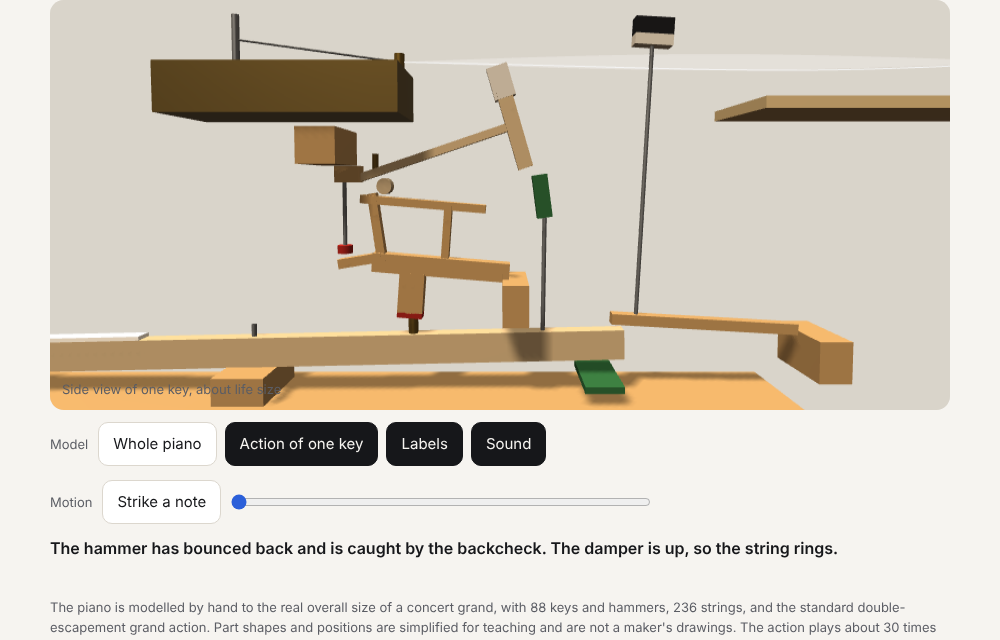
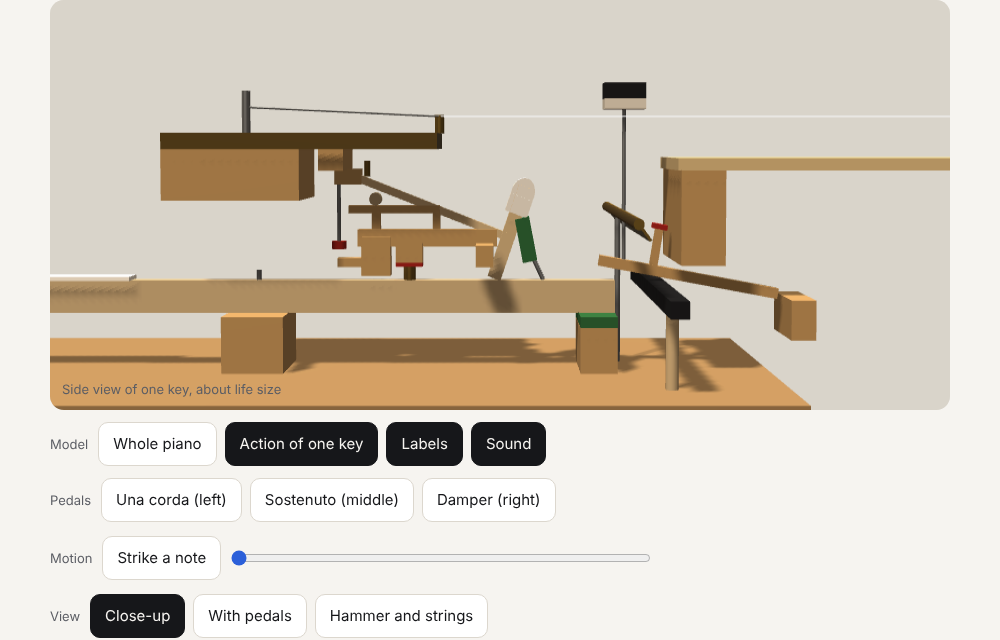
Rebuild the piano action from Steinway regulation data and add pedals
The one-key action now uses Steinway's published Model D regulation
distances and technicians' measured lever lengths, listed with sources
on the page. Adds the damper lever, tray, sostenuto rod, three strings
per note, and working damper, sostenuto and una corda pedals in both the
action view and the whole piano.

Claude-Session: https://claude.ai/code/session_0183zpqxzwarV8TUNT6yqHS7

diff --git a/piano.html b/piano.html
@@ -76,6 +76,11 @@ input[type=range]{flex:1 1 220px;max-width:420px;min-height:44px;accent-color:va
     <button id="lblbtn" aria-pressed="true">Labels</button>
     <button id="sndbtn" aria-pressed="true">Sound</button>
   </div>
+  <div class="bar" id="pedals"><span>Pedals</span>
+    <button data-p="U" aria-pressed="false">Una corda (left)</button>
+    <button data-p="S" aria-pressed="false">Sostenuto (middle)</button>
+    <button data-p="D" aria-pressed="false">Damper (right)</button>
+  </div>
   <div id="wholeUI">
     <div class="bar" id="layers"><span>Show</span>
       <button data-l="lid" aria-pressed="true">Lid and music desk</button>
@@ -96,9 +101,14 @@ input[type=range]{flex:1 1 220px;max-width:420px;min-height:44px;accent-color:va
       <button id="strike" aria-pressed="false">Strike a note</button>
       <input type="range" id="scrub" min="0" max="1000" value="0" aria-label="Step through the key stroke">
     </div>
+    <div class="bar" id="aviews"><span>View</span>
+      <button data-v="close" aria-pressed="true">Close-up</button>
+      <button data-v="pedals" aria-pressed="false">With pedals</button>
+      <button data-v="hammer" aria-pressed="false">Hammer and strings</button>
+    </div>
     <p class="phase" id="phase"></p>
   </div>
-  <p class="note">The piano is modelled by hand to the real overall size of a concert grand, with 88 keys and hammers, 236 strings, and the standard double-escapement grand action. Part shapes and positions are simplified for teaching and are not a maker's drawings. The action plays about 30 times slower than a real key stroke, and string movement is exaggerated so it can be seen.</p>
+  <p class="note">The action is built to Steinway's published regulation distances for the Model D and to lever lengths measured by piano technicians, listed in the table below. Part outlines, the key length and the pedal linkage under the keybed are simplified and are not Steinway drawings. The action plays about 30 times slower than a real key stroke, and string movement is exaggerated so it can be seen.</p>
 </div>
 <div class="band grid" style="padding-top:8px">
   <div>
@@ -108,14 +118,41 @@ input[type=range]{flex:1 1 220px;max-width:420px;min-height:44px;accent-color:va
   <div class="card">
     <h2>What happens when a key goes down</h2>
     <ol>
-      <li>The key is a lever. Its front goes down about 10 mm and its back end rises.</li>
+      <li>The key is a lever. Its front goes down 10.2 mm and its back end rises about half as far.</li>
       <li>The capstan on the key lifts the wippen, which carries the jack.</li>
-      <li>The jack pushes the knuckle under the hammer shank, and the hammer swings up about 45 mm.</li>
-      <li>Just before the string, the jack's toe meets the let-off button. The jack slips out from under the knuckle, so the hammer flies the last 2 mm freely.</li>
+      <li>The jack pushes the knuckle under the hammer shank, and the hammer swings up toward the string, 47.6 mm above its rest position.</li>
+      <li>Just before the string, the jack's toe meets the let-off button. The jack slips out from under the knuckle, so the hammer flies the last 1.6 mm freely.</li>
       <li>The hammer strikes the string and bounces back at once, leaving the string free to ring. Meanwhile the back of the key has lifted the damper off the string.</li>
       <li>The backcheck catches the falling hammer. The repetition lever holds it part-way up, so the jack can slide back under and the note can be repeated quickly.</li>
       <li>When the key is released, everything returns and the damper drops onto the string and stops the sound.</li>
     </ol>
+  </div>
+</div>
+<div class="band" style="padding-top:0">
+  <div class="card">
+    <h2>Measurements used</h2>
+    <div class="scroll"><table>
+      <thead><tr><th>Item</th><th>Value in the model</th><th>Source</th></tr></thead>
+      <tbody>
+        <tr><td>Key dip</td><td class="n">0.400 in (10.2 mm)</td><td>Steinway technical reference: factory setting, range 0.390 to 0.420 in</td></tr>
+        <tr><td>Hammer blow distance</td><td class="n">1-7/8 in (47.6 mm)</td><td>Steinway technical reference: Models C and D</td></tr>
+        <tr><td>Let-off</td><td class="n">1/16 in (1.6 mm)</td><td>Steinway technical reference: between 1/32 and 1/16 in from the string</td></tr>
+        <tr><td>Aftertouch</td><td class="n">about 0.047 in (1.2 mm)</td><td>Steinway technical reference: 3/64 to 1/16 in</td></tr>
+        <tr><td>Checking</td><td class="n">15 mm below the string</td><td>Steinway technical reference, Hamburg procedure</td></tr>
+        <tr><td>Knuckle to shank pivot</td><td class="n">17 mm</td><td>Standard on Hamburg shanks, and on New York shanks since 1984</td></tr>
+        <tr><td>Shank pivot to hammer</td><td class="n">130 mm</td><td>Technicians' measurements of Steinway actions (127 to 144 mm reported)</td></tr>
+        <tr><td>Hammer bore</td><td class="n">48 mm</td><td>Technicians' measurement</td></tr>
+        <tr><td>Wippen: pivot to capstan, pivot to jack</td><td class="n">62.5 mm, 93 mm</td><td>Technicians' measurements (wippen ratio about 1.5)</td></tr>
+        <tr><td>Key ratio</td><td class="n">0.5</td><td>Technicians' measurements of modern Steinway keys</td></tr>
+        <tr><td>Action spread</td><td class="n">112.4 mm</td><td>Follows from the lever lengths above; close to the usual Steinway figure</td></tr>
+        <tr><td>Damper lever pivot height</td><td class="n">2-1/4 in (57 mm) above the keybed</td><td>Steinway technical reference, New York underlever assembly</td></tr>
+        <tr><td>Damper lift begins</td><td class="n">at half the hammer travel</td><td>Standard regulation rule</td></tr>
+        <tr><td>Dampers</td><td class="n">68 (notes 1 to 68)</td><td>Steinway technical reference, Hamburg (New York has 67)</td></tr>
+        <tr><td>Damper pedal free play</td><td class="n">about 3 mm at the tip</td><td>Common regulation check (1/8 in)</td></tr>
+        <tr><td>Una corda shift</td><td class="n">3.6 mm</td><td>Set so the hammer misses the left string of three, as Steinway specifies; the distance itself is my estimate</td></tr>
+      </tbody>
+    </table></div>
+    <p class="note">Sources: <a href="https://www.indyptg.org/PTG/SteinwayServiceManuals/Chp2.pdf">Steinway World-Wide Technical Reference Guide, grand regulation</a>, <a href="https://www.indyptg.org/PTG/SteinwayServiceManuals/Chp6.pdf">specifications and service techniques</a>, and <a href="https://www.steinwayreference.com/action-regulation-specifications/">Steinway Reference: action regulation specifications</a>. Lever lengths come from discussions among Piano Technicians Guild members. With these levers the hammer would move 5.7 times as far as the key front; the model slows the wippen slightly so the hammer reaches let-off with the published aftertouch left over, as felt compression and lost motion do in a real action.</p>
   </div>
 </div>
 
@@ -137,25 +174,31 @@ const PARTS={
  keys:['Keys','Whole piano','52 white and 36 black keys. Each is a long wooden lever. Only the front 15 cm shows; the rest runs back under the fallboard to lift the action.'],
  rim:['Rim and braces','Whole piano','The curved case is bent from laminated hard maple. Heavy wooden braces underneath hold it rigid. A grand is open underneath, so the soundboard radiates both up and down.'],
  lid:['Lid','Whole piano','Open on its long stick, the lid reflects the upward sound out toward the audience over the curved side.'],
- key:['Key','Action','A wooden lever balanced on a pin in the balance rail. Pressing the front down about 10 mm raises the back end.'],
+ key:['Key','Action','A wooden lever balanced on a pin in the balance rail. Steinway sets the key dip at 0.400 in (10.2 mm). The capstan sits half as far behind the balance pin as the finger is in front of it, so the back of the key rises about half as far as the front goes down.'],
  capstan:['Capstan','Action','A brass screw on the key that lifts the wippen. Turning it adjusts how far the hammer rests below the string.'],
  wippen:['Wippen','Action','The lever between key and hammer. It is hinged at its back end and carries the jack and the repetition lever.'],
  jack:['Jack','Action','The L-shaped piece that pushes the hammer up through the knuckle. When its toe reaches the let-off button it swings out from under the knuckle. This is the escapement: it frees the hammer so it cannot stay pressed against the string.'],
- letoff:['Let-off button','Action','A fixed felt stop. It trips the jack when the hammer is about 2 mm from the string.'],
+ letoff:['Let-off button','Action','A fixed felt stop. It trips the jack when the hammer is 1/16 in (1.6 mm) from the string.'],
  replever:['Repetition lever','Action','A sprung lever on the wippen. After the strike it holds the hammer part-way up so the jack can get back under the knuckle before the key has fully risen. This "double escapement" is what allows fast repeated notes on a grand.'],
- knuckle:['Knuckle','Action','A small leather-covered roller under the hammer shank. The jack and the repetition lever push on it.'],
+ knuckle:['Knuckle','Action','A small leather-covered roller under the hammer shank, 17 mm from the shank pivot. The hammer is about 130 mm from the pivot, so it moves about 7.6 times as far as the jack pushes the knuckle.'],
  shank:['Hammer shank and flange','Action','The thin wooden arm that carries the hammer. It pivots on a pin in its flange, which is screwed to the hammer rail.'],
- hammer:['Hammer','Action','A wooden moulding covered with dense wool felt. It travels about 45 mm to the string and touches it for only a few thousandths of a second. The hardness of the felt shapes the tone.'],
- backcheck:['Backcheck','Action','A leather-covered pad on the back of the key. It catches the hammer as it falls back, so the hammer cannot bounce up and hit the string twice.'],
+ hammer:['Hammer','Action','A wooden moulding covered with dense wool felt. On a Model D it rests 1-7/8 in (47.6 mm) below the string and touches the string for only a few thousandths of a second. The hardness of the felt shapes the tone.'],
+ backcheck:['Backcheck','Action','A leather-covered pad on the back of the key. It catches the hammer as it falls back, about 15 mm below the string, so the hammer cannot bounce up and hit the string twice.'],
  damper:['Damper','Action','Felt resting on the string, lifted by the back of the key through the damper lever and wire. It lifts before the hammer strikes and stops the string when the key comes up.'],
  string:['String','Action','Stretched between the agraffe at the front and the bridge on the soundboard. The hammer strikes close to the front end, about one eighth of the way along.'],
+ underlever:['Damper lever','Action','The underlever. Its pivot sits 57 mm (2-1/4 in) above the keybed. The back of the key lifts its front end, and the damper wire stands on it. The key starts to lift it when the hammer is half-way to the string.'],
+ tray:['Damper tray','Action','A rail lying under all the damper levers. The damper pedal raises it, so every damper lifts at once.'],
+ sosrod:['Sostenuto rod','Action','A brass rod with a thin lip, running behind the dampers. When the middle pedal is pressed it turns, and its lip catches the tabs of the dampers that are already raised. Those notes keep ringing after their keys are released, while all the other dampers work normally.'],
+ pedalD:['Damper pedal (right)','Pedals','After about 3 mm of free play, the pedal pushes a rod up to a lever under the keybed. That lever raises a wooden dowel, the pitman, which lifts the damper tray and with it every damper. All strings are then free to ring, including strings that were not struck.'],
+ pedalS:['Sostenuto pedal (middle)','Pedals','Holds only the notes whose dampers are up at the moment the pedal goes down. Play a note, press the pedal while the key is still down, then let the key go: that damper stays up.'],
+ pedalU:['Una corda pedal (left)','Pedals','Slides the whole keyframe, with keys, action and hammers, a few millimetres toward the treble. Each hammer then misses the left string of its three, and strikes with a softer, less worn part of its felt. The tone becomes softer and thinner.'],
  agraffe:['Agraffe','Action','A brass stud screwed into the iron plate. The string passes through it, and it fixes the front end of the vibrating length.']
 };
 let sel='soundboard',mode='whole';
 function renderInfo(){const d=PARTS[sel];infoEl.textContent='';const h=document.createElement('h3'),t=document.createElement('p'),p=document.createElement('p');
   h.textContent=d[0];t.className='tag';t.textContent=d[1];p.style.margin='0';p.textContent=d[2];infoEl.append(h,t,p);
   chipsEl.querySelectorAll('button').forEach(b=>b.setAttribute('aria-pressed',b.dataset.k===sel))}
-function renderChips(){chipsEl.textContent='';Object.keys(PARTS).filter(k=>(PARTS[k][1]==='Action')===(mode==='action')).forEach(k=>{const b=document.createElement('button');b.dataset.k=k;b.textContent=PARTS[k][0];b.onclick=()=>{sel=k;renderInfo()};chipsEl.append(b)})}
+function renderChips(){chipsEl.textContent='';Object.keys(PARTS).filter(k=>PARTS[k][1]==='Pedals'||(PARTS[k][1]==='Action')===(mode==='action')).forEach(k=>{const b=document.createElement('button');b.dataset.k=k;b.textContent=PARTS[k][0];b.onclick=()=>{sel=k;renderInfo()};chipsEl.append(b)})}
 renderChips();renderInfo();
 
 if(!window.THREE||!THREE.OrbitControls){const e=document.createElement('div');e.className='err';e.textContent='The 3D view could not load. Check your connection and reload.';fig.append(e)}
@@ -177,7 +220,16 @@ const brass=M('#b8923c',{metalness:.9,roughness:.3,envMapIntensity:1}),steel=M('
 const box=(w,h,d)=>new THREE.BoxGeometry(w,h,d),cyl=(a,b,h,s=16)=>new THREE.CylinderGeometry(a,b,h,s);
 const add=(geo,mat,parent,x=0,y=0,z=0,sh=true)=>{const m=new THREE.Mesh(geo,mat);m.position.set(x,y,z);m.castShadow=sh;m.receiveShadow=true;parent.add(m);return m};
 function rod(a,b,r,mat,parent){const m=add(cyl(r,r,1,10),mat,parent);m.position.copy(a).add(b).multiplyScalar(.5);m.scale.y=a.distanceTo(b);m.quaternion.setFromUnitVectors(UP,b.clone().sub(a).normalize());return m}
-const labels=[];function label(obj,pos,key,text){const el=document.createElement('div');el.className='lb';el.textContent=text||PARTS[key][0];el.onclick=()=>{sel=key;renderInfo()};labelsEl.append(el);labels.push({el,obj,pos,key,act:PARTS[key][1]==='Action'})}
+const labels=[];function label(obj,pos,key,text){const el=document.createElement('div');el.className='lb';el.textContent=text||PARTS[key][0];el.onclick=()=>{sel=key;renderInfo()};labelsEl.append(el);labels.push({el,obj,pos,key,act:PARTS[key][1]!=='Whole piano'})}
+
+// Regulation distances are Steinway's published figures for the Model D; lever lengths are technicians' measurements of Steinway actions.
+const DIP=.01016,BLOW=.0476,LETOFF=.0016,CHECK=.015,AFTER=.0012;      // key dip .400", blow 1-7/8", let-off 1/16", checking 15 mm, aftertouch about .047"
+const KNUCKLE=.017,SHANK=.130,BORE=.048,WIP_HEEL=.0625,WIP_JACK=.0927; // knuckle 17 mm, strike arm 130 mm, bore 48 mm, wippen arms 62.5 and 93 mm
+const KFRONT=.245,KCAP=.125,KEND=.29,KA=DIP/KFRONT;                    // key ratio 0.5: capstan 125 mm behind the balance pin
+const Hx=.0845,Hy=.145,Wx=.1875,Wy=.100,YSA=Hy+BORE,T=.0125;           // hammer and wippen centres: action spread 112.4 mm
+const angFor=d=>{let a=-.6,b=.2;for(let i=0;i<40;i++){const m=(a+b)/2;(SHANK*Math.sin(m)+BORE*Math.cos(m)-BORE< -d)?a=m:b=m}return a}; // shank angle that leaves the hammer tip d below the string
+const TH0=angFor(BLOW),THL=angFor(LETOFF),THC=angFor(CHECK),THS=0,PL=1-AFTER/DIP,TWL=(THL-TH0)*KNUCKLE/WIP_JACK;
+const ped={D:0,S:0,U:0},pedT={D:0,S:0,U:0};
 
 // ======================= WHOLE PIANO =======================
 const whole=new THREE.Group();scene.add(whole);
@@ -189,6 +241,7 @@ const IN=(x,y)=>[.1+(x-.1)*.955,y*.92],IN2=(x,y)=>[.1+(x-.1)*.89,y*.83],FLAT=m=>
 // curved-side limit: largest z inside the inner rim at a given x
 const edge=outline(new THREE.Shape(),-1.19,IN).getPoints(60);
 const zMax=x=>{let m=-9;edge.forEach(p=>{if(Math.abs(p.x-x)<.05&&-p.y>m)m=-p.y});return m<-8?.6:m};
+const wPed=[];
 { // case
   const s=outline(new THREE.Shape(),-1.19);s.holes.push(outline(new THREE.Path(),-1.19,IN));
   FLAT(add(new THREE.ExtrudeGeometry(s,{depth:.36,bevelEnabled:false,curveSegments:24}),lacquer,gCase,0,.62,0));
@@ -197,7 +250,7 @@ const zMax=x=>{let m=-9;edge.forEach(p=>{if(Math.abs(p.x-x)<.05&&-p.y>m)m=-p.y})
   [-.75,.75].forEach(z=>add(box(.2,.26,.06),lacquer,gCase,-1.28,.75,z));add(box(.24,.06,1.44),lacquer,gCase,-1.26,.65,0);add(box(.015,.03,1.44),lacquer,gCase,-1.372,.705,0);
   [-.665,.665].forEach(z=>add(box(.17,.06,.1),lacquer,gCase,-1.275,.73,z));
   [[-1.22,-.64],[-1.22,.64],[1.02,-.48]].forEach(([x,z])=>{add(box(.14,.1,.14),lacquer,gCase,x,.57,z);add(cyl(.062,.045,.42,4),lacquer,gCase,x,.31,z).rotation.y=Math.PI/4;add(cyl(.02,.02,.06,10),brass,gCase,x,.085,z);add(cyl(.032,.032,.05,14),brass,gCase,x,.034,z).rotation.x=Math.PI/2});
-  [-.09,.09].forEach(z=>rod(V(-1.08,.62,z),V(-1.08,.16,z*.8),.014,lacquer,gCase));add(box(.12,.07,.26),lacquer,gCase,-1.1,.13,0);[-.07,0,.07].forEach(z=>add(box(.11,.012,.035),brass,gCase,-1.2,.1,z));
+  [-.09,.09].forEach(z=>rod(V(-1.08,.62,z),V(-1.08,.16,z*.8),.014,lacquer,gCase));add(box(.12,.07,.26),lacquer,gCase,-1.1,.13,0);wPed.push(...[-.07,0,.07].map(z=>add(box(.11,.012,.035),brass,gCase,-1.2,.1,z)));
   label(gCase,V(1.3,.8,-.86),'rim');
 }
 { // lid, fallboard, music desk
@@ -241,93 +294,128 @@ function setString(o,j,off){const a=o.pins[j],dz=(j-(o.count-1)/2)*.0042,dir=o.e
   label(gStr,V(-.2,.93,.2),'treble');label(gStr,V(.2,.96,-.3),'bass')}
 // dampers (notes 1 to 68), hammers and keys: instanced, with per-note matrices so each can move
 const DN=68,damp=new THREE.InstancedMesh(box(.045,.022,.011),dark,DN),dampF=new THREE.InstancedMesh(box(.045,.008,.011),feltW,DN);gDamp.add(damp,dampF);
-const head=new THREE.InstancedMesh(box(.014,.022,.0105),feltW,88),mould=new THREE.InstancedMesh(box(.011,.055,.0095),maple,88),shank=new THREE.InstancedMesh(box(.13,.006,.006),maple,88);gAct.add(head,mould,shank);
+const head=new THREE.InstancedMesh(box(.014,.022,.0105),feltW,88),mould=new THREE.InstancedMesh(box(.011,.075,.0095),maple,88),shank=new THREE.InstancedMesh(box(.13,.006,.006),maple,88);gAct.add(head,mould,shank);
 const wk=new THREE.InstancedMesh(box(.15,.022,1.22/52*.92),ivory,52),bk=new THREE.InstancedMesh(box(.095,.012,.0125),M('#0c0c0d',{roughness:.3}),36);gAct.add(wk,bk);
 add(box(.36,.02,1.3),beech,gAct,-1.0,.7,0);add(box(.03,.03,1.26),beech,gAct,-.93,.83,0);
 {let w=0,b=0;const W52=1.22/52;notes.forEach(o=>{const pc=(o.n+8)%12,black=[1,3,6,8,10].includes(pc);o.black=black;
   if(black){o.kz=-.61+w*W52;o.ki=b++}else{o.kz=-.61+(w+.5)*W52;o.ki=w++}})}
-const HP=YS-.0855,mt=new THREE.Matrix4(),mr=new THREE.Matrix4(),mo=new THREE.Matrix4();
+const HP=YS-BORE,mt=new THREE.Matrix4(),mr=new THREE.Matrix4(),mo=new THREE.Matrix4();
 function pose(o,p,th,lift){ // p: key travel 0..1, th: hammer angle, lift: damper lift in metres
-  mt.makeTranslation(-1.10,.724,o.kz);mr.makeRotationZ(.041*p);mo.makeTranslation(o.black?-.1425:-.17,o.black?.018:0,0);(o.black?bk:wk).setMatrixAt(o.ki,mt.clone().multiply(mr).multiply(mo));
+  mt.makeTranslation(-1.10,.724,o.kz);mr.makeRotationZ(KA*p);mo.makeTranslation(o.black?-.1425:-.17,o.black?.018:0,0);(o.black?bk:wk).setMatrixAt(o.ki,mt.clone().multiply(mr).multiply(mo));
   mt.makeTranslation(XS-.13,HP,o.z);mr.makeRotationZ(th);const base=mt.clone().multiply(mr);
-  shank.setMatrixAt(o.n-1,base.clone().multiply(mo.makeTranslation(.065,0,0)));mould.setMatrixAt(o.n-1,base.clone().multiply(mo.makeTranslation(.13,-.002,0)));head.setMatrixAt(o.n-1,base.clone().multiply(mo.makeTranslation(.13,.034,0)));
+  shank.setMatrixAt(o.n-1,base.clone().multiply(mo.makeTranslation(.065,0,0)));mould.setMatrixAt(o.n-1,base.clone().multiply(mo.makeTranslation(.13,.004,0)));head.setMatrixAt(o.n-1,base.clone().multiply(mo.makeTranslation(.13,.037,0)));
   if(o.n<=DN){const y=YS+(o.bass?.012:0)+.006+lift;damp.setMatrixAt(o.n-1,mo.makeTranslation(XS+.075,y+.014,o.z));dampF.setMatrixAt(o.n-1,mo.makeTranslation(XS+.075,y,o.z))}}
-notes.forEach(o=>pose(o,0,-.04,0));
+const wLift=(o,p)=>Math.max(p*.006,ped.D*.007,o.sos?.006:0),restAll=()=>{notes.forEach(o=>{if(!live.has(o.n))pose(o,0,TH0,wLift(o,0))});[head,mould,shank,damp,dampF,wk,bk].forEach(m=>m.instanceMatrix.needsUpdate=true)};
 label(gAct,V(-1.3,.76,.45),'keys');label(gAct,V(XS,.86,-.2),'hammers');label(gDamp,V(XS+.08,.95,.05),'dampers');
 // playing a note
-const live=new Map();let ac=null,master=null,sndOn=true;
+const live=new Map();restAll();let ac=null,master=null,sndOn=true;
 function audio(){try{if(!ac){const A=window.AudioContext||window.webkitAudioContext;ac=new A();master=ac.createGain();master.gain.value=.5;master.connect(ac.destination)}ac.resume()}catch(e){ac=null}}
-function tone(n,vel){if(!ac||!sndOn||ac.state!=='running')return;const t=ac.currentTime,f=27.5*2**((n-1)/12),g=ac.createGain(),dur=Math.max(.5,3.2-n*.028);
+function tone(n,vel){if(ped.U>.5)vel*=.6;if(!ac||!sndOn||ac.state!=='running')return;const t=ac.currentTime,f=27.5*2**((n-1)/12),g=ac.createGain(),dur=Math.max(.5,3.2-n*.028);
   g.gain.setValueAtTime(0,t);g.gain.linearRampToValueAtTime(vel*.24,t+.006);g.gain.exponentialRampToValueAtTime(.0008,t+dur);g.connect(master);
   [['triangle',f,1],['sine',f*2,.35],['sine',f*3,.12]].forEach(([ty,fr,a])=>{if(fr>9000)return;const o=ac.createOscillator(),og=ac.createGain();o.type=ty;o.frequency.value=fr;og.gain.value=a;o.connect(og);og.connect(g);o.start(t);o.stop(t+dur+.05)})}
 function playNote(n,vel=.8,hold=.35){const o=notes[n-1];if(!o)return;live.set(n,{o,t:0,hold,struck:false,vel})}
 function stepNotes(dt){if(!live.size)return;const tt=performance.now()/1000;
   live.forEach((s,n)=>{s.t+=dt;const t=s.t,o=s.o,rel=t-(.07+s.hold);
     const p=t<.07?t/.07:rel<0?1:Math.max(0,1-rel/.12);
-    const th=t<.06?-.04+.37*(t/.06):t<.12?.33-.11*((t-.06)/.06):rel<0?.22:-.04+.26*p;
+    const th=t<.06?TH0*(1-t/.06):t<.12?THC*((t-.06)/.06):rel<0?THC:TH0+(THC-TH0)*p,free=n>DN||ped.D>.5||o.sos;if(rel<0)o.held=true;else o.held=false;
     if(!s.struck&&t>=.06){s.struck=true;tone(n,s.vel)}
-    const amp=t<.06?0:Math.exp(-(t-.06)*(n>DN?2.5:1.2))*(rel>0&&n<=DN?Math.exp(-rel*25):1)*(o.bass?.004:.0022);
-    pose(o,p,th,p*.008);for(let j=0;j<o.count;j++)setString(o,j,amp*Math.sin(tt*(55+n)+j*2));
-    if(rel>.12&&amp<.00005){pose(o,0,-.04,0);for(let j=0;j<o.count;j++)setString(o,j,0);live.delete(n)}});
+    if(rel>0&&!free)s.damp=(s.damp||0)+dt;const amp=t<.06?0:Math.exp(-(t-.06)*(n>DN?2.5:1.2))*Math.exp(-(s.damp||0)*25)*(o.bass?.004:.0022);
+    pose(o,p,th,wLift(o,p));for(let j=0;j<o.count;j++)setString(o,j,amp*Math.sin(tt*(55+n)+j*2));
+    if(rel>.12&&amp<.00005){pose(o,0,TH0,wLift(o,0));for(let j=0;j<o.count;j++)setString(o,j,0);live.delete(n)}});
   [wk,bk,head,mould,shank,damp,dampF,strSteel,strCu].forEach(m=>m.instanceMatrix.needsUpdate=true)}
 // the piece: opening bars of Bach's Prelude in C major, BWV 846
 const BARS=[[40,44,47,52,56],[40,42,49,54,57],[39,42,47,54,57],[40,44,47,52,56]],PAT=[0,1,2,3,4,2,3,4];let piece=false,pn=0,pt=0;
 function stepPiece(dt){if(!piece)return;pt-=dt;while(pt<=0){const k=PAT[pn%8];playNote(BARS[Math.floor(pn/16)%4][k],k===0?1:.7,k<2?.9:.3);pn++;pt+=.26}}
 
 // ======================= ACTION OF ONE KEY =======================
+// Regulation distances are Steinway's published figures for the Model D; lever lengths are technicians' measurements of Steinway actions.
 const action=new THREE.Group();action.visible=false;scene.add(action);
-const T=.0125,Hx=.0867,Hy=.160,YSA=.2455,TW=.0786,PL=.88,TH0=-.04,THS=.33,THC=.22;
-add(box(.66,.02,.09),beech,action,.1,-.012,0);add(box(.04,.02,.06),beech,action,0,.009,0);rod(V(0,.018,0),V(0,.05,0),.002,steel,action);
-add(box(.03,.012,.06),beech,action,-.21,.004,0);add(cyl(.009,.009,.004,14),feltG,action,-.21,.012,0);add(box(.03,.005,.06),feltG,action,.28,.0105,0);
-const aKey=new THREE.Group();aKey.position.set(0,.030,0);action.add(aKey);
-add(box(.54,.022,T),maple,aKey,.03,0,0);add(box(.15,.003,T),ivory,aKey,-.165,.0125,0);add(box(.003,.022,T),ivory,aKey,-.2405,0,0);
-add(cyl(.004,.004,.014,10),brass,aKey,.13,.018,0);rod(V(.235,.011,0),V(.238,.1,0),.0018,steel,aKey);add(box(.012,.032,T),feltG,aKey,.236,.112,0).rotation.z=.12;
-const aWip=new THREE.Group();aWip.position.set(.20,.090,0);action.add(aWip);
-add(box(.11,.014,T),beech,aWip,-.0475,0,0);add(box(.02,.03,T),beech,aWip,-.07,-.021,0);add(box(.02,.004,T),feltR,aWip,-.07,-.0375,0);
-add(box(.006,.04,T*.8),beech,aWip,-.045,.027,0);
-const aRep=add(box(.10,.006,T),beech,aWip,-.065,.046,0);
-add(box(.02,.03,.06),beech,action,.212,.07,0);
-const aJack=new THREE.Group();aJack.position.set(-.095,0,0);aWip.add(aJack);
-add(box(.007,.052,T*.7),beech,aJack,0,.026,0);add(box(.035,.007,T*.7),beech,aJack,-.0175,.004,0);
-rod(V(.075,.11,0),V(.075,.168,0),.0016,steel,action);const aLet=add(cyl(.006,.006,.006,14),feltR,action,.075,.107,0);
-const aHam=new THREE.Group();aHam.position.set(Hx,Hy,0);action.add(aHam);
-add(box(.13,.006,.006),maple,aHam,.065,0,0);const aKn=add(cyl(.006,.006,T*.9,14),M('#c9b18a'),aHam,.0183,-.012,0);aKn.rotation.x=Math.PI/2;
-add(box(.012,.06,T*.85),maple,aHam,.13,-.003,0);const aHead=add(cyl(.0112,.0112,T*.95,24),M('#fbf8f0',{roughness:1}),aHam,.13,.031,0);aHead.rotation.x=Math.PI/2;aHead.scale.z=1.25;add(box(.02,.012,T*.95),M('#fbf8f0',{roughness:1}),aHam,.13,.022,0);
-add(box(.02,.012,T),beech,action,Hx-.008,Hy+.003,0);add(box(.03,.026,.06),beech,action,.062,.183,0);add(cyl(.0025,.0025,.012,8),brass,action,.1,.172,0);
-const aDam=new THREE.Group();aDam.position.set(.44,.047,0);action.add(aDam);
-add(box(.15,.008,T*.8),beech,aDam,-.075,0,0);rod(V(-.13,.004,0),V(-.13,YSA-.047+.022,0),.0016,steel,aDam);
-const aDh=add(box(.03,.012,T),dark,aDam,-.13,YSA-.047+.019,0);add(box(.03,.008,T),feltW,aDam,-.13,YSA-.047+.009,0);add(box(.025,.03,.06),beech,action,.455,.03,0);
-add(box(.18,.035,.07),iron,action,.035,.2225,0);const aAg=add(cyl(.004,.004,.02,10),brass,action,.12,YSA-.004,0);add(cyl(.003,.003,.05,8),steel,action,-.01,.255,0);
-rod(V(-.01,.262,0),V(.12,YSA,0),.0008,steel,action);
-const BX=.62;add(box(.022,.03,.07),M('#9a6b3c'),action,BX,YSA-.016,0);add(box(.34,.008,.09),spruce,action,.56,YSA-.035,0);rod(V(BX,YSA,0),V(.74,YSA-.005,0),.0008,steel,action);
-const SN=48,sGeo=new THREE.BufferGeometry();sGeo.setAttribute('position',new THREE.Float32BufferAttribute(new Float32Array((SN+1)*3),3));
-const aStr=new THREE.Line(sGeo,new THREE.LineBasicMaterial({color:0xf2f2f2}));action.add(aStr);
-const lens=new THREE.Shape();lens.moveTo(.12,0);for(let i=0;i<=SN;i++)lens.lineTo(.12+(BX-.12)*i/SN,Math.sin(Math.PI*i/SN));for(let i=SN;i>=0;i--)lens.lineTo(.12+(BX-.12)*i/SN,-Math.sin(Math.PI*i/SN));
+const aShift=new THREE.Group();action.add(aShift); // everything on the keyframe: this is what the una corda pedal slides sideways
+add(box(.70,.045,.34),M('#a98558',{roughness:.7}),action,.07,-.0225,0);
+add(box(.05,.0425,.07),beech,aShift,0,.02125,0);rod(V(0,.04,0),V(0,.075,0),.002,steel,aShift);
+add(box(.03,.022,.07),beech,aShift,-.235,.011,0);add(cyl(.009,.009,.010,14),feltG,aShift,-.235,.027,0);add(box(.03,.0345,.07),beech,aShift,.28,.01725,0);add(box(.03,.008,.07),feltG,aShift,.28,.0385,0);
+const aKey=new THREE.Group();aKey.position.set(0,.0425,0);aShift.add(aKey);
+add(box(.55,.025,T),maple,aKey,.02,.0125,0);add(box(.15,.003,T*1.85),ivory,aKey,-.18,.0265,0);add(box(.003,.022,T*1.85),ivory,aKey,-.2565,.016,0);
+const aCap=add(cyl(.005,.005,.013,12),brass,aKey,KCAP,.0315,0);
+rod(V(.236,.025,0),V(.226,.045,0),.0018,steel,aKey);const aBack=add(box(.012,.034,T),feltG,aKey,.2215,.056,0);aBack.rotation.z=.2;
+const aWip=new THREE.Group();aWip.position.set(Wx,Wy,0);aShift.add(aWip);
+add(box(.115,.013,T),beech,aWip,-.0475,0,0);add(box(.022,.015,T),beech,aWip,-WIP_HEEL,-.012,0);add(box(.022,.003,T),feltR,aWip,-WIP_HEEL,-.0205,0);add(box(.024,.03,T),beech,aWip,-.09,-.014,0);
+add(box(.006,.02,T*.8),beech,aWip,-.04,.012,0);const aRep=add(box(.075,.006,T),beech,aWip,-.075,.0218,0);
+add(box(.014,.016,.07),beech,aShift,Wx,.088,0);
+const aJack=new THREE.Group();aJack.position.set(-.09,-.022,0);aWip.add(aJack);
+add(box(.007,.0468,T*.7),beech,aJack,0,.0234,0);add(box(.032,.007,T*.7),beech,aJack,-.016,.003,0);
+rod(V(.0665,.097,0),V(.0665,.153,0),.0016,steel,aShift);const aLet=add(cyl(.006,.006,.006,14),feltR,aShift,.0665,.0943,0);
+const aHam=new THREE.Group();aHam.position.set(Hx,Hy,0);aShift.add(aHam);
+add(box(SHANK,.006,.006),maple,aHam,SHANK/2,0,0);const aKn=add(cyl(.005,.005,T*.9,14),M('#c9b18a'),aHam,KNUCKLE,-.010,0);aKn.rotation.x=Math.PI/2;
+add(box(.011,.075,T*.85),maple,aHam,SHANK,.004,0);const hf=M('#fbf8f0',{roughness:1});
+const aHead=add(cyl(.0096,.0096,T*.95,24),hf,aHam,SHANK,.036,0);aHead.rotation.x=Math.PI/2;aHead.scale.z=1.25;add(box(.019,.014,T*.95),hf,aHam,SHANK,.026,0);
+add(box(.022,.012,T),beech,aShift,Hx-.01,Hy+.002,0);add(box(.02,.016,.07),beech,aShift,.064,.160,0);add(cyl(.0025,.0025,.012,8),brass,aShift,.09,.153,0);
+// fixed parts: plate and pinblock, three strings of one note, bridge, soundboard, belly rail
+add(box(.11,.038,.09),beech,action,-.015,.149,0);add(box(.22,.012,.09),iron,action,.04,.174,0);const AGX=.15,BX=AGX+.516;
+const aAg=add(cyl(.004,.004,.014,10),brass,action,AGX,YSA-.006,0);add(cyl(.0035,.0035,.055,8),steel,action,-.01,.185,0);
+add(box(.022,.03,.09),M('#9a6b3c'),action,BX,YSA-.016,0);add(box(.5,.009,.12),spruce,action,.59,YSA-.036,0);add(box(.035,.07,.12),beech,action,.36,.118,0);
+const SN=48,ZS=[-.0036,0,.0036],aStr=ZS.map(z=>{rod(V(-.01,.2,z*.5),V(AGX,YSA,z),.0006,steel,action);rod(V(BX,YSA,z),V(BX+.1,YSA-.004,z),.0006,steel,action);
+  const g=new THREE.BufferGeometry();g.setAttribute('position',new THREE.Float32BufferAttribute(new Float32Array((SN+1)*3),3));const l=new THREE.Line(g,new THREE.LineBasicMaterial({color:0xf2f2f2}));l.frustumCulled=false;action.add(l);return l});
+const lens=new THREE.Shape();lens.moveTo(AGX,0);for(let i=1;i<=SN;i++)lens.lineTo(AGX+(BX-AGX)*i/SN,Math.sin(Math.PI*i/SN));for(let i=SN-1;i>0;i--)lens.lineTo(AGX+(BX-AGX)*i/SN,-Math.sin(Math.PI*i/SN));
 const aEnv=new THREE.Mesh(new THREE.ShapeGeometry(lens),new THREE.MeshBasicMaterial({color:0xffffff,transparent:true,opacity:.25,depthWrite:false,side:THREE.DoubleSide}));aEnv.position.y=YSA;action.add(aEnv);
-[[aKey,V(-.12,-.012,0),'key'],[aKey,V(.13,.03,0),'capstan'],[aWip,V(-.005,-.012,0),'wippen'],[aJack,V(-.03,.0,0),'jack'],[aLet,V(0,.01,0),'letoff'],[aRep,V(.04,.012,0),'replever'],[aKn,V(0,0,0),'knuckle'],
- [aHam,V(.075,.012,0),'shank'],[aHead,V(.012,.0,.0),'hammer'],[aKey,V(.25,.125,0),'backcheck'],[aDh,V(0,.016,0),'damper'],[action,V(.47,YSA+.012,0),'string'],[aAg,V(0,.018,0),'agraffe']].forEach(([o,p,k])=>label(o,p,k));
+// damper: underlever pivot 57 mm (2-1/4") above the keybed, wire, head; damper tray under the levers; sostenuto rod
+const DA0=.137,aDam=new THREE.Group();aDam.position.set(.43,.057,0);action.add(aDam);
+add(box(.15,.008,T*.8),beech,aDam,-.075,0,0);const aTab=add(box(.012,.004,T),feltR,aDam,-.105,.034,0);add(box(.006,.03,T*.8),beech,aDam,-.105,.017,0);
+const aWire=new THREE.Group();aWire.position.set(-.13,.004,0);aDam.add(aWire);rod(V(0,0,0),V(0,YSA-.0787+.012,0),.0016,steel,aWire);
+const aDh=add(box(.034,.012,T*1.9),dark,aWire,0,YSA-.0787+.015,0);add(box(.034,.008,T*1.9),feltW,aWire,0,YSA-.0787+.005,0);
+add(box(.02,.03,.07),beech,action,.445,.04,0);
+const aTray=add(box(.014,.012,.3),dark,action,.33,.0605,0),aSos=new THREE.Group();aSos.position.set(.3,.118,0);action.add(aSos);
+const sosRod=add(cyl(.004,.004,.3,12),brass,aSos);sosRod.rotation.x=Math.PI/2;add(box(.012,.002,.3),brass,aSos,.008,0,0);
+// pedals, lyre and trapwork (key top is 735 mm above the floor, so the pedals sit about 0.6 m below the keybed)
+const FY=-.667,PZ=[-.105,0,.105],aPed=PZ.map(z=>{const g=new THREE.Group();g.position.set(-.16,FY+.065,z);action.add(g);add(box(.24,.014,.032),brass,g,-.02,0,0);return g});
+add(box(.12,.09,.34),lacquer,action,-.13,FY+.055,0);[-.14,.14].forEach(z=>rod(V(-.13,FY+.1,z),V(-.13,-.045,z),.016,lacquer,action));add(box(.9,.008,.5),M('#8a6a45',{roughness:.7}),action,.07,FY-.004,0,false);
+const aRodD=rod(V(-.06,FY+.065,PZ[2]),V(-.06,-.085,PZ[2]),.004,steel,action),aTrap=new THREE.Group();aTrap.position.set(.62,-.075,PZ[2]);action.add(aTrap);add(box(.7,.02,.03),beech,aTrap,-.35,0,0);
+const aPit=rod(V(.33,-.065,PZ[2]),V(.33,.052,PZ[2]),.005,maple,action);
+const aRodS=rod(V(-.06,FY+.065,0),V(-.06,-.085,0),.004,steel,action);add(box(.42,.012,.02),beech,action,.13,-.075,0);const aPull=rod(V(.3,-.07,-.03),V(.3,.11,-.03),.0025,steel,action);
+const aRodU=rod(V(-.06,FY+.065,PZ[0]),V(-.06,-.085,PZ[0]),.004,steel,action);add(box(.05,.03,.05),beech,action,-.05,-.065,PZ[0]);
+[[aKey,V(-.12,-.012,0),'key'],[aCap,V(0,-.004,0),'capstan'],[aWip,V(-.005,-.012,0),'wippen'],[aJack,V(-.03,.0,0),'jack'],[aLet,V(0,.01,0),'letoff'],[aRep,V(.04,.012,0),'replever'],[aKn,V(0,0,0),'knuckle'],
+ [aHam,V(.075,.012,0),'shank'],[aHead,V(.012,0,0),'hammer'],[aBack,V(.012,.0,0),'backcheck'],[aDh,V(0,.016,0),'damper'],[aDam,V(-.03,-.004,0),'underlever'],[aTray,V(0,-.01,.1),'tray'],[aSos,V(0,.012,.1),'sosrod'],
+ [action,V(.5,YSA+.012,0),'string'],[aAg,V(0,.016,0),'agraffe'],[aPed[2],V(-.12,.02,0),'pedalD'],[aPed[1],V(-.12,.02,0),'pedalS'],[aPed[0],V(-.12,.02,0),'pedalU']].forEach(([o,p,k])=>label(o,p,k));
 const ease=x=>x*x*(3-2*x),UL=.4*(()=>{let a=0,b=1;for(let i=0;i<30;i++){const m=(a+b)/2;ease(m)<PL?a=m:b=m}return a})(),USK=UL+.03,UCH=UL+.10,UREL=.62;
-let au=0,aPlaying=false,aStruck=false,dampDownU=2;
+let au=0,aPlaying=false,ring=[0,0,0],keyLift=0;
+let sosLatch={set:false,hold:false};
 const phaseEl=document.getElementById('phase'),scrub=document.getElementById('scrub'),strikeBtn=document.getElementById('strike');
-function setAction(u){au=u;const p=u<.4?ease(u/.4):u<UREL?1:1-ease((u-UREL)/(1-UREL));
-  aKey.rotation.z=-.021+.042*p;aWip.rotation.z=-TW*p;aJack.rotation.z=p>PL?(p-PL)/(1-PL)*.28:0;
-  const con=TH0+(.095*Math.sin(TW*Math.min(p,PL)))/.0183;let th;
+function setAction(u){const was=au;au=u;const p=u<.4?ease(u/.4):u<UREL?1:1-ease((u-UREL)/(1-UREL));
+  aKey.rotation.z=KA*p;aWip.rotation.z=-TWL*p/PL;aJack.rotation.z=p>PL?(p-PL)/(1-PL)*.3:0;
+  const con=TH0+(THL-TH0)*Math.min(p,PL)/PL;let th;
   if(u<=UL)th=con;else if(u<USK)th=con+(THS-con)*((u-UL)/(USK-UL));else if(u<UCH)th=THS-(THS-THC)*ease((u-USK)/(UCH-USK));else if(u<UREL)th=THC;else th=TH0+(THC-TH0)*p;
-  aHam.rotation.z=th;const rise=.29*.042*p,lift=Math.max(0,rise-.004)/.15;aDam.rotation.z=-lift;
-  let amp=0;if(u>=USK){amp=Math.exp(-(u-USK)*1.3);if(u>UREL&&lift<=0){if(dampDownU>u||dampDownU<UREL)dampDownU=u;amp*=Math.exp(-(u-dampDownU)*60)}}aAmp=amp;
-  phaseEl.textContent=u<.02?'At rest: the hammer lies on the repetition lever, and the damper rests on the string.':u<=UL?'The key goes down. The capstan lifts the wippen, and the jack pushes the hammer up.':u<USK?'Let-off: the jack slips out from under the knuckle. The hammer flies the last 2 mm on its own.':u<USK+.02?'Strike: the hammer touches the string for an instant.':u<UREL?'The hammer has bounced back and is caught by the backcheck. The damper is up, so the string rings.':u<.98?'The key comes up. The jack slides back under the knuckle, and the damper falls and stops the string.':'Back at rest, ready for the next note.'}
-let aAmp=0;
-function stepAction(dt,t){if(aPlaying){const u=Math.min(1,au+dt/6);if(!aStruck&&u>=USK){aStruck=true;tone(40,.8)}setAction(u);scrub.value=Math.round(u*1000);if(u>=1){aPlaying=false;strikeBtn.setAttribute('aria-pressed','false');strikeBtn.textContent='Strike a note'}}
-  const pos=sGeo.attributes.position,A=aAmp*.006;for(let i=0;i<=SN;i++){const s=i/SN;pos.setXYZ(i,.12+(BX-.12)*s,YSA+A*(Math.sin(Math.PI*s)*Math.sin(t*38)+.3*Math.sin(2*Math.PI*s)*Math.sin(t*76)),0)}pos.needsUpdate=true;
-  aEnv.scale.y=Math.max(.0001,A);aEnv.material.opacity=.28*Math.min(1,aAmp*3)}
-strikeBtn.onclick=()=>{audio();if(aPlaying){aPlaying=false}else{if(au>=1||au<=0){au=0;dampDownU=2}aStruck=au>=USK;aPlaying=true}strikeBtn.setAttribute('aria-pressed',aPlaying);strikeBtn.textContent=aPlaying?'Pause':'Strike a note'};
-scrub.oninput=()=>{aPlaying=false;strikeBtn.setAttribute('aria-pressed','false');strikeBtn.textContent='Strike a note';dampDownU=2;setAction(scrub.value/1000)};
+  aHam.rotation.z=th;keyLift=Math.max(0,KEND*KA*p-.0053)/.14;
+  if(was<USK&&u>=USK&&u<UCH){ring=[ped.U>.5?0:1,1,1];tone(40,ped.U>.5?.5:.8)}
+  phaseEl.textContent=u<.02?'At rest: the hammer lies '+(BLOW*1000).toFixed(1)+' mm below the string, and the damper rests on it.':u<=UL?'The key goes down. The capstan lifts the wippen, and the jack pushes the knuckle. At half the hammer travel the key starts to lift the damper.':u<USK?'Let-off: 1.6 mm from the string the jack slips out from under the knuckle. The hammer flies on alone.':u<USK+.02?'Strike: the hammer touches the string for an instant.':u<UREL?'The hammer has bounced back and is caught by the backcheck, 15 mm below the string. The damper is up, so the string rings.':u<.98?'The key comes up. The jack slides back under the knuckle, and the damper falls and stops the string.':'Back at rest, ready for the next note.'}
+function stepAction(dt,t){
+  if(aPlaying){const u=Math.min(1,au+dt/6);setAction(u);scrub.value=Math.round(u*1000);if(u>=1){aPlaying=false;strikeBtn.setAttribute('aria-pressed','false');strikeBtn.textContent='Strike a note'}}
+  // damper pedal: 3 mm free play at the tip, then pedal, rod, trap lever and pitman raise the tray under every damper lever
+  const tip=ped.D*.023,rodUp=tip*.77,trap=rodUp/.68,trayUp=Math.max(0,trap*.29-.0009),pedLift=trayUp/.10;
+  aPed[2].rotation.z=tip/.13;aRodD.position.y=(FY+.065-.085)/2+rodUp;aTrap.rotation.z=-trap;aPit.position.y=-.0065+trap*.29;aTray.position.y=.0605+trayUp;
+  let lift=Math.max(keyLift,pedLift);
+  if(pedT.S&&!sosLatch.set){sosLatch={set:true,hold:lift>.02}}if(!pedT.S)sosLatch={set:false,hold:false};
+  if(sosLatch.hold)lift=Math.max(lift,.035);
+  aDam.rotation.z=-(DA0+lift);aWire.rotation.z=DA0+lift;aSos.rotation.z=-ped.S*.9;aPed[1].rotation.z=ped.S*.15;aRodS.position.y=(FY+.065-.085)/2+ped.S*.015;aPull.position.y=.02+ped.S*.004;
+  aPed[0].rotation.z=ped.U*.15;aRodU.position.y=(FY+.065-.085)/2+ped.U*.015;aShift.position.z=ped.U*.0036;
+  const down=lift<.004;ring=ring.map(a=>a*Math.exp(-dt*(down?14:.3)));let mx=0;
+  aStr.forEach((l,j)=>{const pos=l.geometry.attributes.position,A=ring[j]*.005;mx=Math.max(mx,ring[j]);for(let i=0;i<=SN;i++){const s=i/SN;pos.setXYZ(i,AGX+(BX-AGX)*s,YSA+A*(Math.sin(Math.PI*s)*Math.sin(t*38+j)+.3*Math.sin(2*Math.PI*s)*Math.sin(t*76+j)),ZS[j])}pos.needsUpdate=true});
+  aEnv.scale.y=Math.max(.0001,mx*.005);aEnv.material.opacity=.28*Math.min(1,mx*3)}
+strikeBtn.onclick=()=>{audio();if(aPlaying){aPlaying=false}else{if(au>=1||au<=0)au=0;aPlaying=true}strikeBtn.setAttribute('aria-pressed',aPlaying);strikeBtn.textContent=aPlaying?'Pause':'Strike a note'};
+scrub.oninput=()=>{aPlaying=false;strikeBtn.setAttribute('aria-pressed','false');strikeBtn.textContent='Strike a note';setAction(scrub.value/1000)};
 setAction(0);
 
 // ======================= UI =======================
-const CAM={whole:[V(-2.0,2.1,2.3),V(0,.85,0)],action:[V(.2,.17,.5),V(.2,.135,0)]};
+const CAM={whole:[V(-2.0,2.1,2.3),V(0,.85,0)],action:[V(.2,.17,1.12),V(.2,.125,0)]},AV={close:[V(.2,.17,1.12),V(.2,.125,0)],pedals:[V(.42,-.16,3.0),V(.15,-.25,0)],hammer:[V(.52,.5,.3),V(.2145,.185,0)]};
+function aView(k){camera.position.copy(AV[k][0]);controls.target.copy(AV[k][1]);document.querySelectorAll('#aviews button').forEach(b=>b.setAttribute('aria-pressed',b.dataset.v===k))}
+document.querySelectorAll('#aviews button').forEach(b=>b.onclick=()=>aView(b.dataset.v));
+let lastD=-1;
+function stepPeds(dt){['D','S','U'].forEach(k=>{ped[k]+=(pedT[k]-ped[k])*Math.min(1,dt*9)});if(mode!=='whole')return;
+  wPed[0].rotation.z=ped.U*.12;wPed[1].rotation.z=ped.S*.12;wPed[2].rotation.z=ped.D*.12;gAct.position.z=ped.U*.0036;if(Math.abs(ped.D-lastD)>1e-4){lastD=ped.D;restAll()}}
+document.querySelectorAll('#pedals button').forEach(b=>b.onclick=()=>{const k=b.dataset.p;pedT[k]=pedT[k]?0:1;b.setAttribute('aria-pressed',!!pedT[k]);sel='pedal'+k;renderChips();renderInfo();
+  if(k==='S'){notes.forEach(o=>{o.sos=!!pedT.S&&(o.held||pedT.D>0)});if(mode==='whole')restAll()}
+  if(mode==='action'&&pedT[k])aView(k==='U'?'hammer':'pedals')});
 function setMode(m){CAM[mode]=[camera.position.clone(),controls.target.clone()];mode=m;whole.visible=m==='whole';action.visible=m==='action';
-  camera.position.copy(CAM[m][0]);controls.target.copy(CAM[m][1]);controls.minDistance=m==='whole'?.5:.08;controls.maxDistance=m==='whole'?9:1.6;controls.maxPolarAngle=m==='whole'?Math.PI:Math.PI*.6;
+  camera.position.copy(CAM[m][0]);controls.target.copy(CAM[m][1]);controls.minDistance=m==='whole'?.5:.15;controls.maxDistance=m==='whole'?9:6;camera.fov=m==='whole'?40:16;camera.updateProjectionMatrix();
   document.getElementById('wholeUI').hidden=m!=='whole';document.getElementById('actionUI').hidden=m!=='action';document.getElementById('hint').textContent=m==='whole'?'Tap a key to play it':'Side view of one key, about life size';
   document.querySelectorAll('#modes button[data-m]').forEach(b=>b.setAttribute('aria-pressed',b.dataset.m===m));sel=m==='whole'?'soundboard':'jack';renderChips();renderInfo();
   if(m!=='whole'){piece=false;playBtn.setAttribute('aria-pressed','false');playBtn.textContent='Play a piece'}if(m!=='action')aPlaying=false}
@@ -349,12 +437,12 @@ camera.position.copy(CAM.whole[0]);controls.target.copy(CAM.whole[1]);controls.m
 const ro=new ResizeObserver(()=>{const w=fig.clientWidth,h=fig.clientHeight;if(!w||!h)return;renderer.setSize(w,h,false);camera.aspect=w/h;camera.updateProjectionMatrix()});ro.observe(fig);
 const tmp=new THREE.Vector3();let lastT=0;
 function loop(t){requestAnimationFrame(loop);const dt=Math.min(.05,Math.max(0,(t-lastT)/1000));lastT=t;
-  if(mode==='whole'){stepPiece(dt);stepNotes(dt)}else stepAction(dt,t/1000);
+  stepPeds(dt);if(mode==='whole'){stepPiece(dt);stepNotes(dt)}else stepAction(dt,t/1000);
   controls.update();renderer.render(scene,camera);const w=fig.clientWidth,h=fig.clientHeight;
   labels.forEach(l=>{let vis=l.act===(mode==='action');if(vis){let o=l.obj;while(o){if(!o.visible){vis=false;break}o=o.parent}}
     if(vis){l.obj.localToWorld(tmp.copy(l.pos)).project(camera);vis=tmp.z<1&&Math.abs(tmp.x)<1.02&&Math.abs(tmp.y)<1.02}
     l.el.style.visibility=vis?'visible':'hidden';l.el.classList.toggle('on',l.key===sel);if(vis)l.el.style.transform=`translate(${(tmp.x*.5+.5)*w}px,${(-tmp.y*.5+.5)*h}px) translate(-50%,-100%)`})}
-requestAnimationFrame(loop);
+/*TESTHOOK*/requestAnimationFrame(loop);
 }
 }
 </script>

diff --git a/README.md b/README.md
@@ -32,12 +32,14 @@ What the page does:
 `piano.html` is a second page: a concert grand you can open up, and one key's action in slow motion.
 
 - **Whole piano:** case and braces, soundboard with ribs and bridges, cast-iron plate, 236 strings with the bass strings crossing over the tenor, tuning pins, dampers, 88 hammers and keys. Hide any layer, make the case see-through, or pull the layers apart with the Explode slider. Tap a key to play it and watch its key, hammer, damper and strings move.
-- **Action of one key:** key, capstan, wippen, jack, let-off button, repetition lever, knuckle, hammer, backcheck, damper and string, animated through one key stroke. Play it or step through it with the slider.
+- **Action of one key:** key, capstan, wippen, jack, let-off button, repetition lever, knuckle, hammer, backcheck, damper lever, damper and three strings, animated through one key stroke. Play it or step through it with the slider.
+- **Pedals:** all three work in both views. The damper pedal lifts every damper through its rod, trap lever, pitman and tray. The sostenuto pedal holds only the dampers that are already up. The una corda pedal slides the keyframe so each hammer misses the left string of three.
 
 ![The piano's interior from above](piano-inside.png)
-![The action of one key just after the strike](piano-action.png)
+![The action with the sostenuto pedal holding the damper up](piano-action.png)
+![The action with the pedals and their rods](piano-pedals.png)
 
-The parts are modelled by hand to the real overall size and the standard grand action. Shapes and positions are simplified for teaching and are not a maker's drawings.
+The action uses Steinway's published regulation distances for the Model D (key dip 0.400 in, hammer blow 1-7/8 in, let-off 1/16 in, checking 15 mm) and lever lengths measured by piano technicians (17 mm knuckle, 130 mm shank, 62.5 and 93 mm wippen arms, 0.5 key ratio). The page lists every figure with its source. Part outlines, the key length and the pedal linkage under the keybed are simplified and are not Steinway drawings.
 
 ## The setup
 
